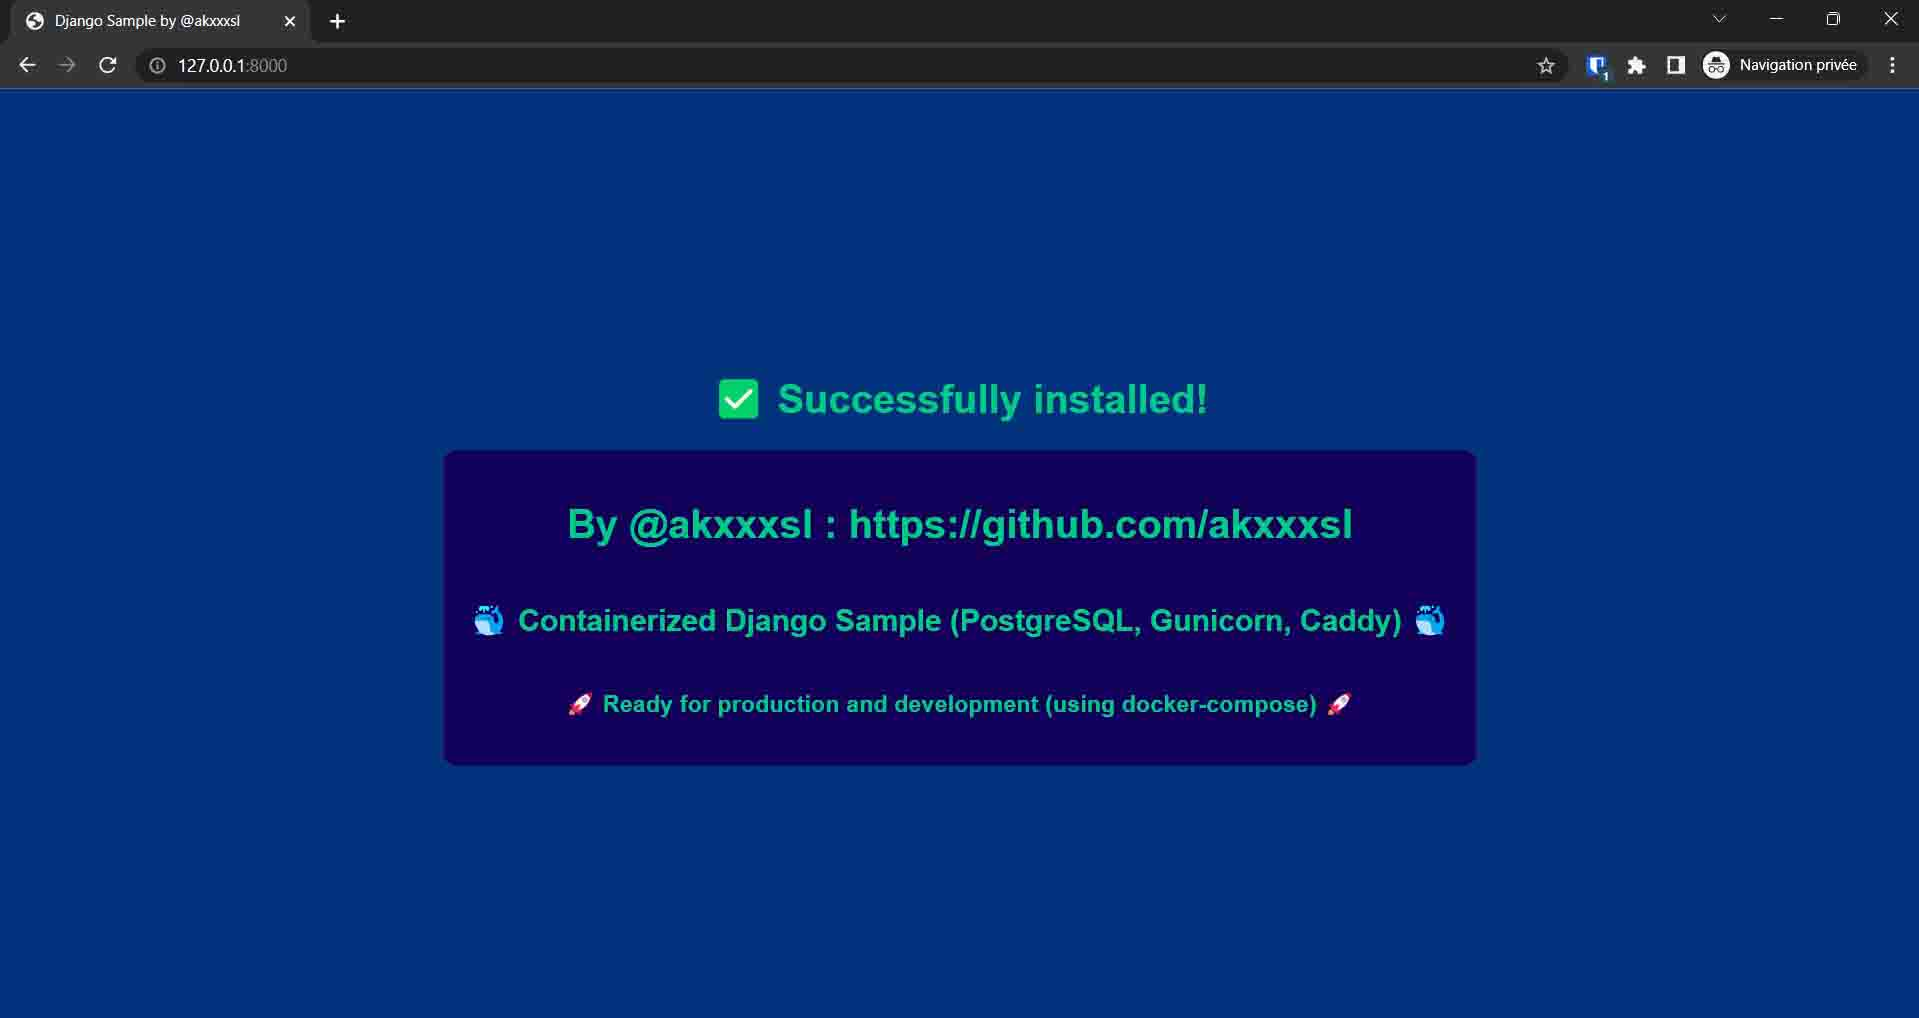
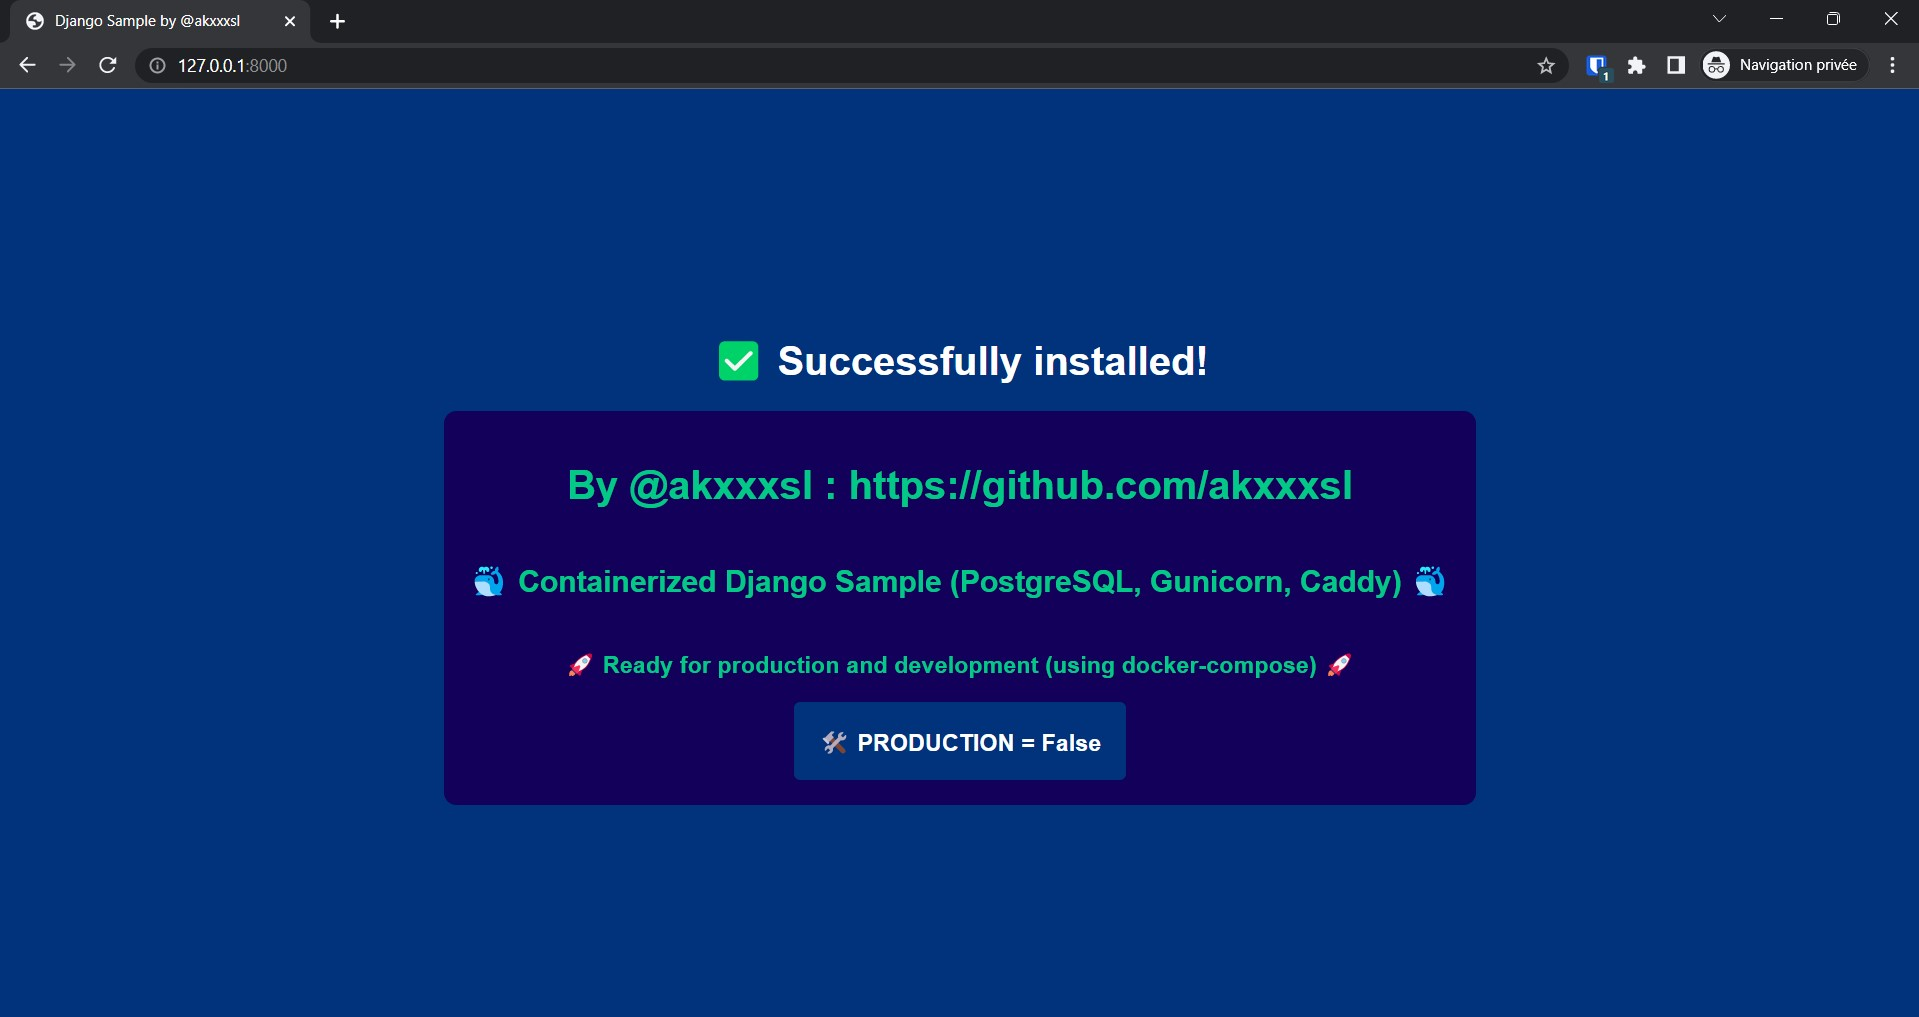
success page

diff --git a/src/templates/index.html b/src/templates/index.html
@@ -5,10 +5,13 @@ Django Sample by @akxxxsl
 
 {% block main %}
 
-<h1>✅ Successfully installed!</h1>
+<h1 class="color-white">✅ Successfully installed!</h1>
 <div class="box">
     <h1>By @akxxxsl : <a href="https://github.com/akxxxsl" target="_blank">https://github.com/akxxxsl</a></h1>
     <h2>🐳 Containerized Django Sample (PostgreSQL, Gunicorn, Caddy) 🐳</h2>
     <h3>🚀 Ready for production and development (using docker-compose) 🚀</h3>
+    <div class="second-box">
+        <h3>{% if production %}🏢{% else %}🛠{% endif %}  PRODUCTION = {{ production }}</h3>
+    </div>
 </div>
 {% endblock %}

diff --git a/src/static/css/style.css b/src/static/css/style.css
@@ -19,6 +19,18 @@ justify-content: center;
 align-items: center;
 flex-direction: column;
 border-radius: 10px;
+border-solid: 1px white;
+}
+
+.second-box{
+background-color: #00337C;
+color: white;
+border-radius: 5px;
+padding: 0px 20px;
+}
+
+.color-white{
+color: white;
 }
 
 a{

diff --git a/src/application/views.py b/src/application/views.py
@@ -1,6 +1,8 @@
 from django.shortcuts import render
 
-# Create your views here.
+from django.conf import settings
 
 def index(request):
-    return render(request, template_name="index.html")
+    production = settings.PRODUCTION
+
+    return render(request, template_name="index.html", context={'production': production})
